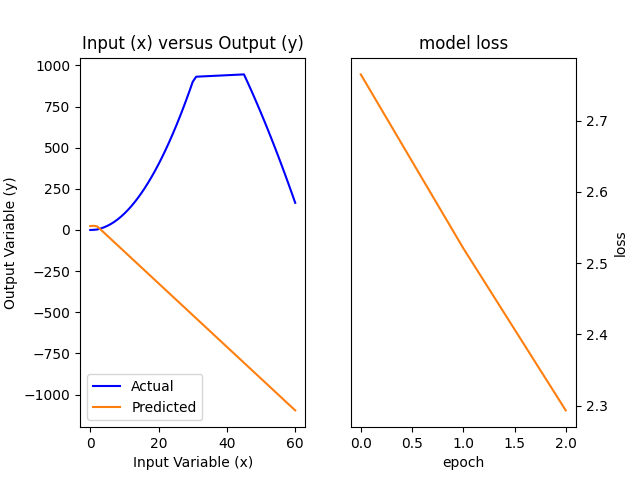
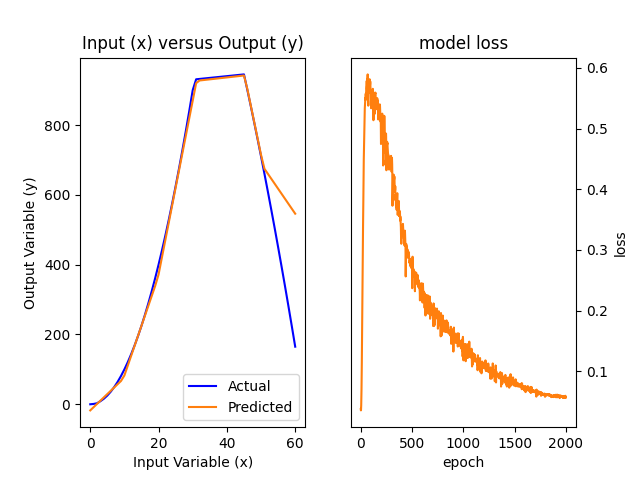
terminei

diff --git a/trabalho_3/test.py b/trabalho_3/test.py
@@ -60,7 +60,7 @@ model.add(Dense(1))
 model.compile(loss='mse', optimizer='adam')
 
 # ft the model on the training dataset
-history = model.fit(entrada, saida, validation_split=0.15, epochs=3000, batch_size=10, verbose=0)
+history = model.fit(entrada, saida, validation_split=0.15, epochs=2000, batch_size=10, verbose=0)
 
 # make predictions for the input data   
 ypredict = model.predict(entrada)
@@ -83,9 +83,7 @@ axs[0].set(xlabel='Input Variable (x)', ylabel='Output Variable (y)')
 axs[0].legend()
 axs[0].label_outer()
 
-
-
-# pyplot.plot(history.history['loss'])
+#plot loss
 axs[1].plot(history.history['val_loss'], color = 'tab:orange')
 axs[1].set_title('model loss')
 axs[1].set(xlabel='epoch', ylabel='loss')
@@ -95,7 +93,7 @@ axs[1].label_outer()
 
 
 pyplot.savefig('plot.png')
-# pyplot.show()
+pyplot.show()
 
 terminalinput = "0"
 
@@ -112,5 +110,23 @@ while(terminalinput != ""):
         print("y real->", end = ''); print(y_plot[terminalinput])
         print("y est ->", end = ''); print(ypredict_plot[terminalinput])
 
+        x=9
+        if(terminalinput<9):
+                x=terminalinput
 
-        
+        x_partial = x_plot[terminalinput-x:terminalinput+10]
+        y_partial = y_plot[terminalinput-x:terminalinput+10]
+        ypredict_partial = ypredict_plot[terminalinput-x:terminalinput+10]
+
+        pyplot.plot(x_partial,y_partial, label='Actual', color = 'b')
+        pyplot.plot(x_partial,ypredict_partial, label='Predicted', color = 'tab:orange')
+
+        pyplot.plot(terminalinput,y_plot[terminalinput], 'ro')
+        pyplot.plot(terminalinput,ypredict_plot[terminalinput], 'ro')
+
+        pyplot.title('Partial Input (x) versus Output (y)')
+        pyplot.xlabel('Input Variable (x)')
+        pyplot.ylabel('Output Variable (y)')
+        pyplot.legend()
+
+        pyplot.show()
